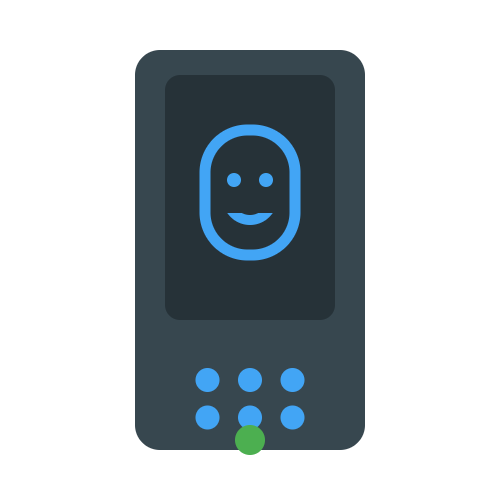
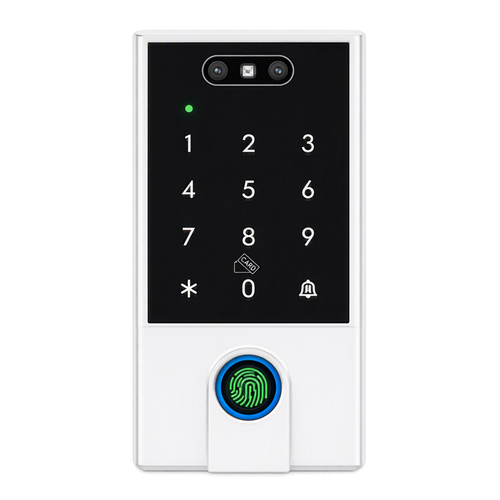
1.0.185
Three defects found by re-reviewing this week's new drivers, all of them
introduced by me, none caught by the suites that already existed.

The refresh request asked for a data point that does not exist. A
device's refresh names the DPs it is configured for, derived from every
setting starting with "dp_" — minus a hardcoded list of two names that
look like a DP number but are a scale bound. When the fan gained
dp_light_color_temp_min/max in 1.0.175 the list was not extended, so
every fan has since asked its device for DP 100, the default value of
the maximum. Harmless on a device that ignores unknown DPs in a refresh,
not harmless on one where DP 100 means something. The name-based rule
now lives once in dpCodeMap as isNotADpNumber and is used by both places
that need it — the refresh and guessedDefaults — which is what should
have happened when the second one was written.

The access panel logged two unknown data points per query. Its auto-lock
delay and alarm duration are written by flow actions and carry no
capability, and unlike the level sensor — where the same situation is
handled — nothing told _handleDps to expect them. Two lines of noise a
minute is how a genuinely unmapped DP stops being read.

The weather station and level sensor declared energy.batteries. Neither
reports a battery level: the station's battery data point is one of the
undocumented Raw blobs and the level sensor has none at all. Homey shows
[…]

diff --git a/lib/dpCodeMap.js b/lib/dpCodeMap.js
@@ -23,6 +23,22 @@
  * heuristic result untouched.
  */
 
+/**
+ * True for a settings key that starts with "dp_" but does not hold a DP number.
+ *
+ * Drivers hang companion values off a DP's own name — dp_light_dim_max is the top
+ * of a brightness scale, dp_light_color_temp_invert a direction flag — and both
+ * read as a plausible DP id to anything scanning for the "dp_" prefix. Two places
+ * need to know the difference: guessedDefaults, which would otherwise switch a
+ * scale bound off, and the refresh request, which would otherwise ask a device for
+ * a data point numbered after somebody's default of 100. It lives here so the two
+ * cannot drift apart, which is exactly what happened when the fan driver gained a
+ * colour-temperature range and only one of them was told.
+ */
+function isNotADpNumber(key) {
+  return /_(?:min|max|invert)$/.test(key);
+}
+
 function normalizeCode(code) {
   return String(code || '').toLowerCase().replace(/[^a-z0-9]/g, '');
 }
@@ -260,7 +276,7 @@ function guessedDefaults(detectedDps, liveDps) {
     // this guard, whenever a device's spec happens not to list DP 100 (i.e. almost
     // always), the block below "disables" the scale bound by writing 0 into it,
     // and a brightness or colour-temperature slider goes dead at pairing.
-    if (/_(?:min|max|invert)$/.test(key)) continue;
+    if (isNotADpNumber(key)) continue;
     if (!Number.isInteger(dp) || dp <= 0) continue; // already disabled
     if (observed.has(dp)) continue;                 // seen on the LAN — real
     out[key] = dp;
@@ -270,5 +286,5 @@ function guessedDefaults(detectedDps, liveDps) {
 
 module.exports = {
   detectFromCloudSpec, extractEnumValues, extractIntegerRange, detectViaCloud,
-  normalizeCode, guessedDefaults,
+  normalizeCode, guessedDefaults, isNotADpNumber,
 };

diff --git a/lib/BaseTuyaDevice.js b/lib/BaseTuyaDevice.js
@@ -397,12 +397,16 @@ class BaseTuyaDevice extends Homey.Device {
    * are excluded; booleans and strings drop out on their own via the type check.
    */
   _configuredDps() {
-    const NOT_A_DP = new Set(['dp_light_dim_min', 'dp_light_dim_max']);
+    // Was hier nicht als DP-Nummer zaehlt, entscheidet dieselbe Regel wie beim
+    // Abschalten geratener Vorgaben — frueher stand hier eine handgepflegte Liste
+    // zweier Namen, und als der Ventilator einen Farbtemperatur-Bereich bekam,
+    // fragte die Refresh-Anfrage fortan den Datenpunkt 100 ab, den es nicht gibt.
+    const { isNotADpNumber } = require('./dpCodeMap');
     const out = new Set();
     let settings;
     try { settings = this.getSettings(); } catch (e) { return []; }
     for (const [key, value] of Object.entries(settings || {})) {
-      if (!key.startsWith('dp_') || NOT_A_DP.has(key)) continue;
+      if (!key.startsWith('dp_') || isNotADpNumber(key)) continue;
       if (typeof value !== 'number' || !Number.isInteger(value)) continue;
       if (value >= 1 && value <= 255) out.add(value);
     }

diff --git a/drivers/access_panel/device.js b/drivers/access_panel/device.js
@@ -179,6 +179,15 @@ class AccessPanelDevice extends BaseTuyaDevice {
         continue;
       }
 
+      // The two timing values are written by flow actions and carry no capability,
+      // so an incoming value only has to be remembered — which the assignment at
+      // the top of the loop already did. Naming them here keeps them out of the
+      // log: a panel reports both on every full query, and two lines of noise per
+      // minute is how a genuinely unknown data point stops being noticed.
+      const known = ['dp_auto_lock_time', 'dp_alarm_time']
+        .some((k) => settings[k] > 0 && dp === settings[k]);
+      if (known) continue;
+
       // Everything else on this panel is a Raw data point — enrolment, temporary
       // passwords, and the unlock records that would say who opened the door. The
       // format is not published, so they are logged and left alone rather than
